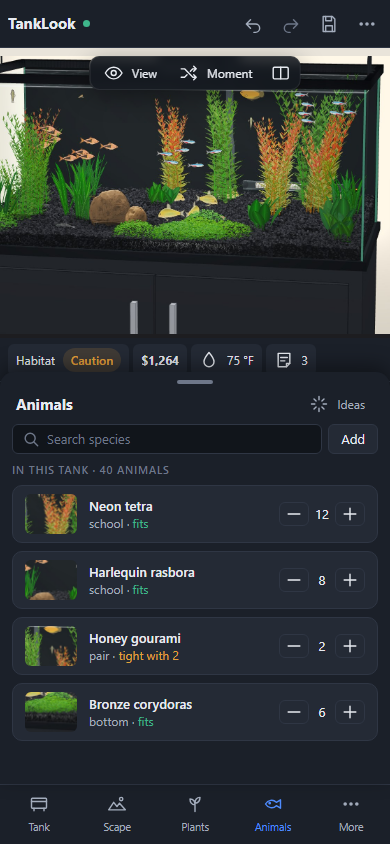
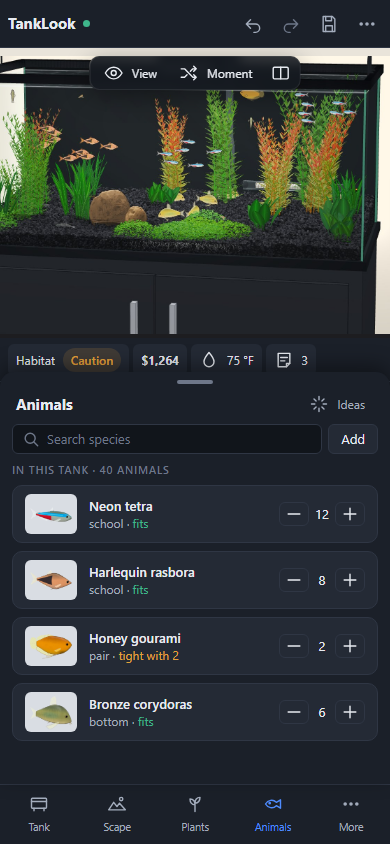
UI2: item cards use a generic tile (catalogue picture on a neutral tile), not a crop of the tank (Nathan 11-13)

Changed region(s): [[0.0615, 0.7393, 0.2154, 0.8934], [0.0615, 0.5853, 0.2154, 0.7085]]

diff --git a/research/design/ui2/03-split-desktop.html b/research/design/ui2/03-split-desktop.html
@@ -16,7 +16,7 @@
 <script src="icons.js"></script><script src="shell.js"></script>
 <div class="app" id="app"></div>
 <script>
-const sp = (n, m, c, x = '') => `<div class="card media"><div class="thumb" style="background-image:url(tank-render.jpg);background-size:600%;background-position:${x}"></div><div><div class="t">${n}</div><div class="m">${m}</div></div><div style="display:flex;align-items:center;gap:4px"><button class="btn icon sm">${I('minus')}</button><span class="val" style="min-width:20px;text-align:center">${c}</span><button class="btn icon sm">${I('plus')}</button></div></div>`;
+const sp = (n, m, c, x = '') => `<div class="card media"><div class="thumb" style="background-image:url(../../../public/gallery/${x}.webp)"></div><div><div class="t">${n}</div><div class="m">${m}</div></div><div style="display:flex;align-items:center;gap:4px"><button class="btn icon sm">${I('minus')}</button><span class="val" style="min-width:20px;text-align:center">${c}</span><button class="btn icon sm">${I('plus')}</button></div></div>`;
 document.getElementById('app').innerHTML = apphead() + rail('animals', {animals: '!'}) + `
 <section class="panel">
   <div class="editing"><span class="cap" style="color:var(--text-2)">Editing</span><div class="seg"><button>A</button><button class="on">B</button><button>Both</button></div><span class="hint">changes go to Tank B only</span></div>
@@ -25,12 +25,12 @@ document.getElementById('app').innerHTML = apphead() + rail('animals', {animals:
     <div style="display:flex;gap:6px"><div class="input" style="flex:1;display:flex;align-items:center;gap:6px;color:var(--text-3)">${I('search')} Search 412 species</div><button class="btn">Add&hellip;</button></div>
     <div style="display:flex;gap:6px;flex-wrap:wrap"><span class="chip on">Fits this tank</span><span class="chip">Fish</span><span class="chip">Shrimp</span><span class="chip">Snails</span><span class="chip">Bottom</span></div>
     <div class="cap">In Tank B &middot; 40 animals</div>
-    ${sp('Neon tetra', 'school &middot; 1.2 in &middot; <span style="color:var(--ok)">fits</span>', 12, '70% 30%')}
-    ${sp('Harlequin rasbora', 'school &middot; 1.8 in &middot; <span style="color:var(--ok)">fits</span>', 8, '30% 40%')}
-    ${sp('Bronze corydoras', 'bottom &middot; 2.6 in &middot; <span style="color:var(--ok)">fits</span>', 6, '50% 70%')}
-    ${sp('Honey gourami', 'pair &middot; 2 in &middot; <span style="color:var(--warn)">tight with 2</span>', 2, '65% 15%')}
-    ${sp('Amano shrimp', 'cleanup &middot; 2 in &middot; <span style="color:var(--ok)">fits</span>', 6, '40% 80%')}
-    ${sp('Otocinclus', 'algae &middot; 1.6 in &middot; <span style="color:var(--ok)">fits</span>', 4, '20% 60%')}
+    ${sp('Neon tetra', 'school &middot; 1.2 in &middot; <span style="color:var(--ok)">fits</span>', 12, 'neon')}
+    ${sp('Harlequin rasbora', 'school &middot; 1.8 in &middot; <span style="color:var(--ok)">fits</span>', 8, 'harlequin')}
+    ${sp('Bronze corydoras', 'bottom &middot; 2.6 in &middot; <span style="color:var(--ok)">fits</span>', 6, 'bronzecory')}
+    ${sp('Honey gourami', 'pair &middot; 2 in &middot; <span style="color:var(--warn)">tight with 2</span>', 2, 'honeygourami')}
+    ${sp('Amano shrimp', 'cleanup &middot; 2 in &middot; <span style="color:var(--ok)">fits</span>', 6, 'amano')}
+    ${sp('Otocinclus', 'algae &middot; 1.6 in &middot; <span style="color:var(--ok)">fits</span>', 4, 'oto')}
     <div class="group"><div class="gh">Water <span class="sum">clear &middot; level 1 in below rim</span></div></div>
   </div>
 </section>

diff --git a/research/design/ui2/02-editor-phone.html b/research/design/ui2/02-editor-phone.html
@@ -19,7 +19,7 @@
 <script src="icons.js"></script><script src="shell.js"></script>
 <div class="ph" id="app"></div>
 <script>
-const sp = (n, m, c, x) => `<div class="card media"><div class="thumb" style="background-image:url(tank-render.jpg);background-size:600%;background-position:${x}"></div><div><div class="t">${n}</div><div class="m">${m}</div></div><div style="display:flex;align-items:center;gap:4px"><button class="btn icon sm">${I('minus')}</button><span class="val" style="min-width:18px;text-align:center">${c}</span><button class="btn icon sm">${I('plus')}</button></div></div>`;
+const sp = (n, m, c, x) => `<div class="card media"><div class="thumb" style="background-image:url(../../../public/gallery/${x}.webp)"></div><div><div class="t">${n}</div><div class="m">${m}</div></div><div style="display:flex;align-items:center;gap:4px"><button class="btn icon sm">${I('minus')}</button><span class="val" style="min-width:18px;text-align:center">${c}</span><button class="btn icon sm">${I('plus')}</button></div></div>`;
 document.getElementById('app').innerHTML = `
 <header class="apphead"><span class="brand">TankLook</span><span class="dot"></span><span style="flex:1"></span>
   <button class="btn icon ghost">${I('undo')}</button><button class="btn icon ghost" disabled>${I('redo')}</button><button class="btn icon ghost">${I('save')}</button><button class="btn icon ghost">${I('more')}</button></header>
@@ -38,10 +38,10 @@ document.getElementById('app').innerHTML = `
   <div class="sec-body">
     <div style="display:flex;gap:6px"><div class="input" style="flex:1;display:flex;align-items:center;gap:6px;color:var(--text-3)">${I('search')} Search species</div><button class="btn">Add</button></div>
     <div class="cap">In this tank &middot; 40 animals</div>
-    ${sp('Neon tetra', 'school &middot; <span style="color:var(--ok)">fits</span>', 12, '70% 30%')}
-    ${sp('Harlequin rasbora', 'school &middot; <span style="color:var(--ok)">fits</span>', 8, '30% 40%')}
-    ${sp('Honey gourami', 'pair &middot; <span style="color:var(--warn)">tight with 2</span>', 2, '65% 15%')}
-    ${sp('Bronze corydoras', 'bottom &middot; <span style="color:var(--ok)">fits</span>', 6, '50% 70%')}
+    ${sp('Neon tetra', 'school &middot; <span style="color:var(--ok)">fits</span>', 12, 'neon')}
+    ${sp('Harlequin rasbora', 'school &middot; <span style="color:var(--ok)">fits</span>', 8, 'harlequin')}
+    ${sp('Honey gourami', 'pair &middot; <span style="color:var(--warn)">tight with 2</span>', 2, 'honeygourami')}
+    ${sp('Bronze corydoras', 'bottom &middot; <span style="color:var(--ok)">fits</span>', 6, 'bronzecory')}
   </div>
 </section>
 <nav class="tabs">

diff --git a/research/design/ui2/01-editor-desktop.html b/research/design/ui2/01-editor-desktop.html
@@ -14,7 +14,7 @@ document.getElementById('app').innerHTML = apphead() + rail('tank', {animals: '!
   <div class="sec-head"><h2>Tank</h2><button class="btn sm ghost">${I('ideas')} Ideas for the tank</button></div>
   <div class="sec-body">
     <div class="group open"><div class="gh">Tank model <span class="sum">40 gal breeder</span></div><div class="gb">
-      <div class="card media sel"><div class="thumb" style="background-image:url(tank-render.jpg)"></div>
+      <div class="card media sel"><div class="thumb" style="display:grid;place-items:center;color:#3a4150">${I("tank")}</div>
         <div><div class="t">Aqueon 40 gal breeder</div><div class="m">36 &times; 18 &times; 16 in &middot; rimmed &middot; $139</div></div>
         <button class="btn sm">Change&hellip;</button></div>
       <div class="row"><span class="lbl">Shape</span><div class="seg"><button class="on">Box</button><button>Bow</button><button>Corner</button><button>Other &#9662;</button></div><span></span></div>

diff --git a/research/design/ui2/tokens.css b/research/design/ui2/tokens.css
@@ -94,7 +94,7 @@ button, input, select { font: inherit; color: inherit; }
 .card.sel { border-color: var(--accent); box-shadow: 0 0 0 1px var(--accent); }
 .card .t { font-weight: 600; } .card .m { color: var(--text-2); font-size: var(--fs-sm); }
 .card.media { grid-template-columns: 52px 1fr auto; align-items: center; gap: var(--s3); padding: var(--s2) var(--s3); }
-.thumb { width: 52px; height: 40px; border-radius: 6px; background: var(--bg-sunken) center/cover; }
+.thumb { width: 52px; height: 40px; border-radius: 6px; background: #d9dde3 center / 88% auto no-repeat; } /* generic tile: the item's catalogue picture on one neutral tile, never a crop of the tank */
 
 /* ---------- Tile (picker grids) ---------- */
 .tiles { display: grid; grid-template-columns: repeat(3, 1fr); gap: var(--s2); }

diff --git a/research/design/ui2-screen-map.md b/research/design/ui2-screen-map.md
@@ -168,7 +168,7 @@ All in `research/design/ui2/tokens.css`. One style each; nothing outside the tok
 | Input, select | numbers, lists | as today, one style |
 | Pill (ok / warn / bad / accent / neutral) | read-only status | 29 pill / chip / tag / badge classes (with Chip) |
 | Chip | filters, removable tags | |
-| Card (plain, media, selected) | gear, species, library item, suggestion, build | 22 card classes |
+| Card (plain, media, selected) | gear, species, library item, suggestion, build. The picture is a **generic tile**: the item's catalogue picture (`public/gallery/*.webp` for animals; the same for plants, decor, gear) on one neutral tile, never a crop of the item in the tank (Nathan 11-13) | 22 card classes |
 | Tile | picker grids (looks, starters, tanks) | start-mode cards, qp-cards, library cards |
 | Panel, section head, group (folds to a one-line summary) | the left column | 24 panel / box / float classes |
 | Drawer | the right inspector | cost panel, habitat tile, water chip, notes, selected-animal box |
